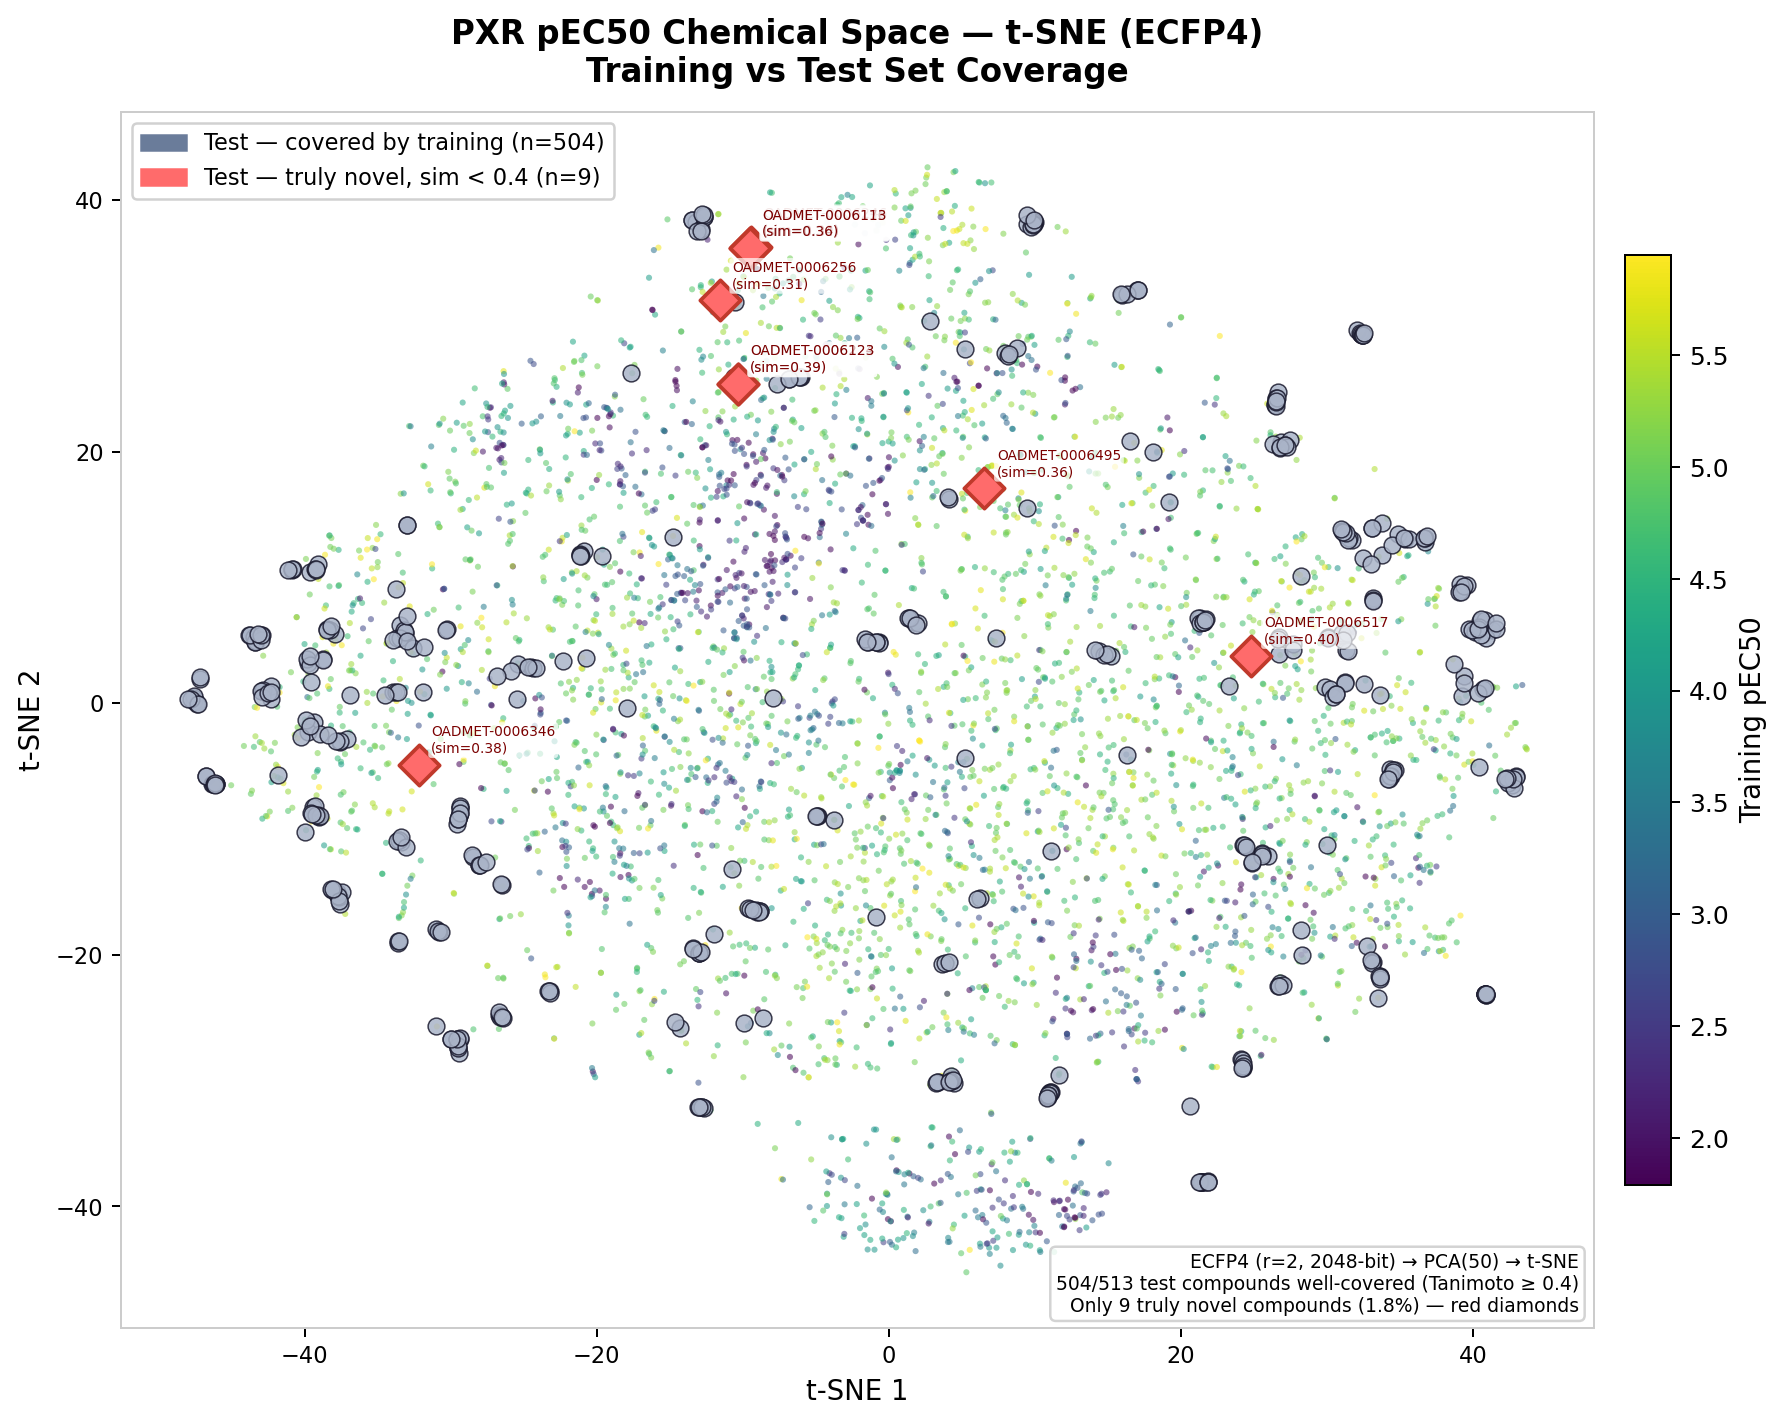
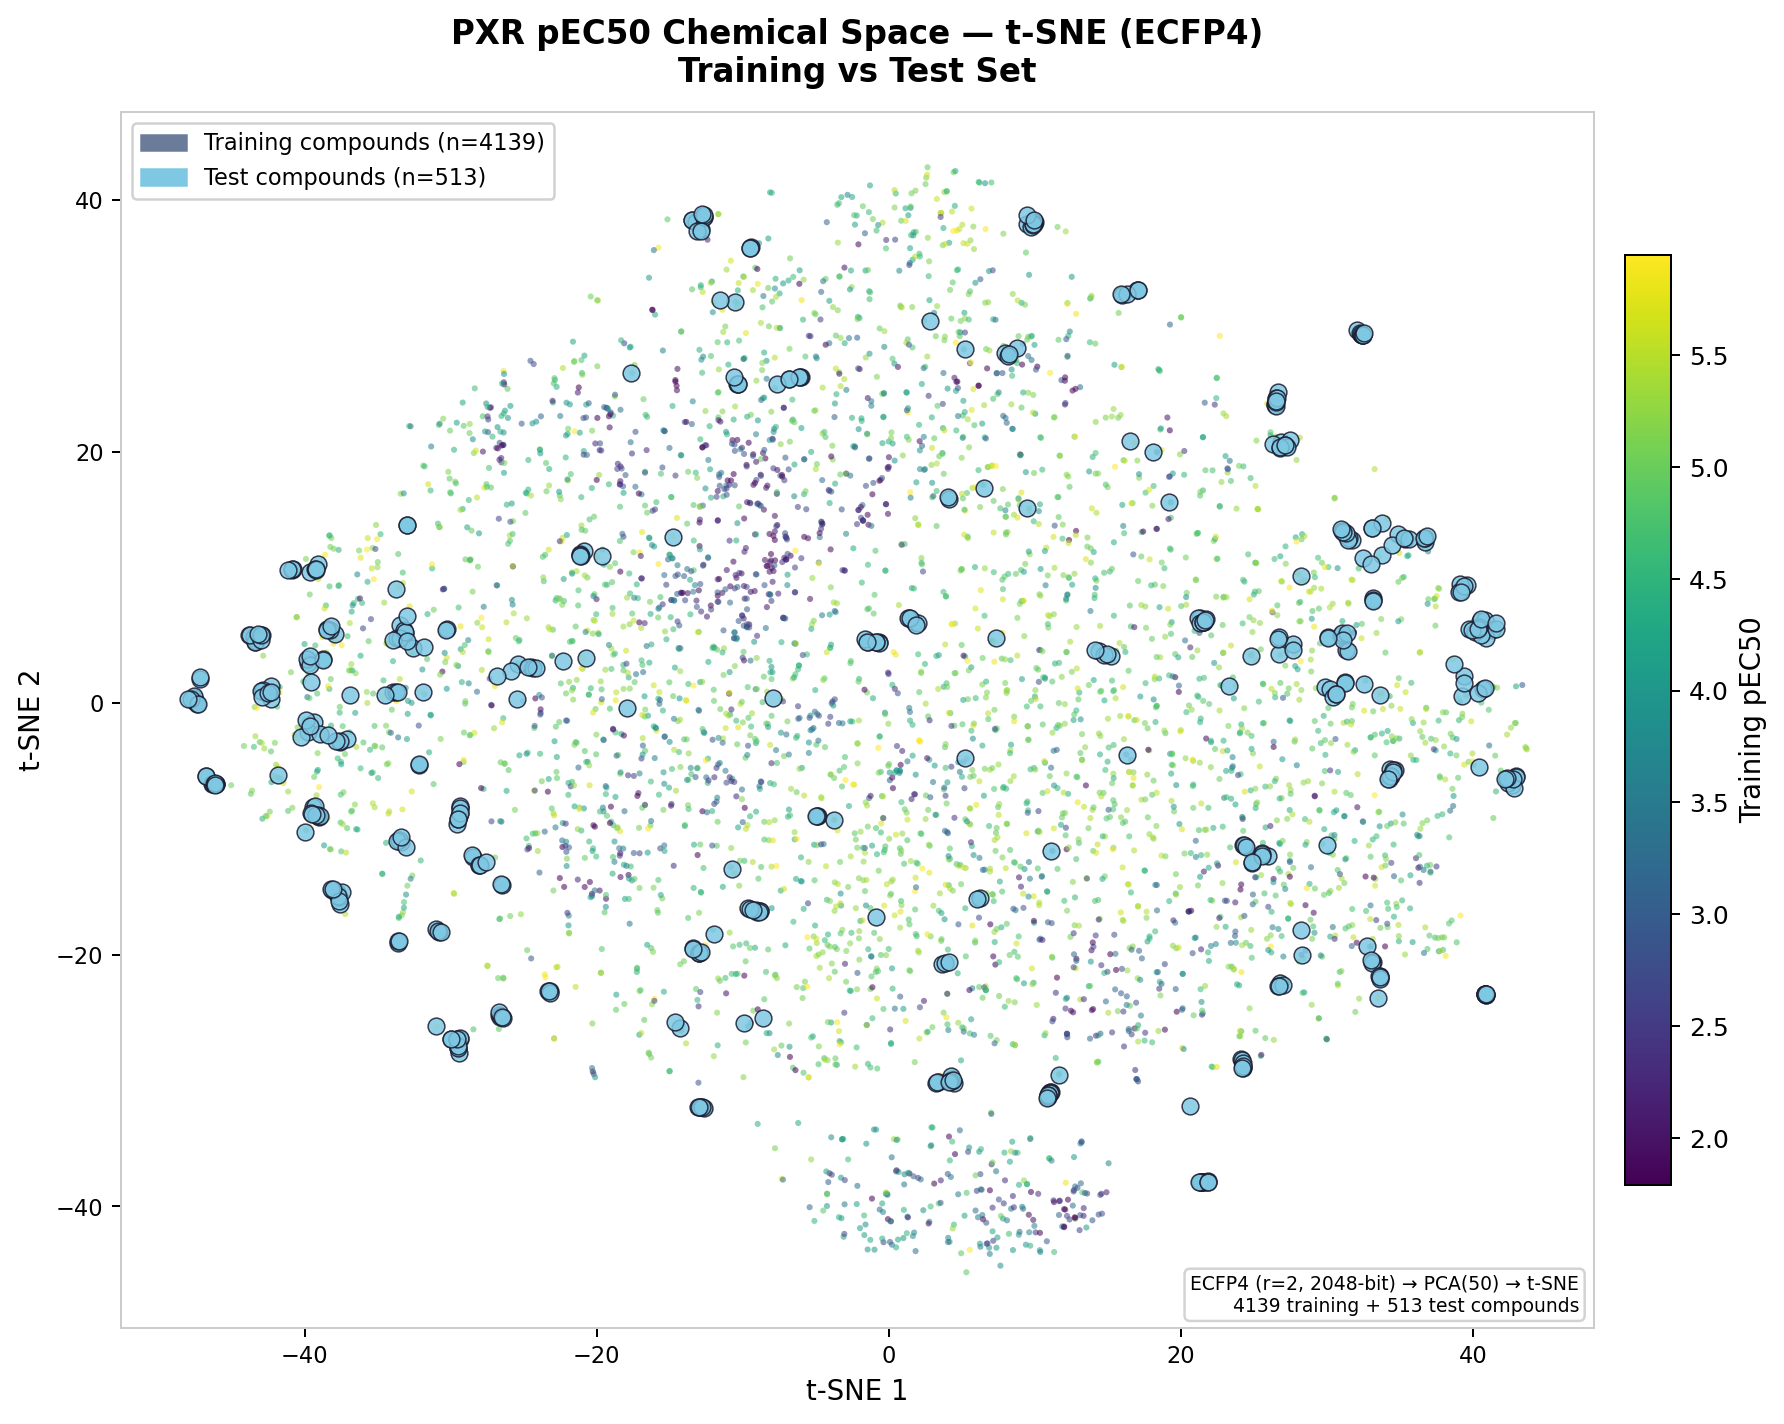
second commit

diff --git a/README.md b/README.md
@@ -15,8 +15,7 @@
 6. [What We Tried (and What Failed)](#what-we-tried-and-what-failed)  
 7. [Best Ensemble](#best-ensemble)  
 8. [What Top Teams Are Likely Doing Differently](#what-top-teams-are-likely-doing-differently)  
-9. [Phase 2 Plan](#phase-2-plan)  
-10. [Repo Contents](#repo-contents)  
+9. [Repo Contents](#repo-contents)  
 
 ---
 
@@ -97,19 +96,9 @@ We curated 37 ChEMBL PXR compounds with ECFP4 Tanimoto ≥ 0.4 to blind test com
 
 ### Structural coverage of the test set
 
-Before building any model, we mapped the relationship between training and test chemical space using ECFP4 Tanimoto similarity (radius = 2, 2048-bit) against the full `clean_train.csv` (2,948 compounds). A test compound is *covered* if any training compound lies within Tanimoto ≥ 0.4; otherwise it is *truly novel*.
-
-```
-513 test compounds
-├── 504 covered  (98.2%) — at least one training neighbour at Tanimoto ≥ 0.4
-└──   9 novel    ( 1.8%) — no close training analogue (max Tanimoto 0.30–0.40)
-```
-
-This is consistent with the challenge design: the 513 test compounds are Enamine analog expansions of the top 63 training hits, so structural coverage is expected to be high. The mean max-Tanimoto across all test compounds is **0.53**, peaking squarely in the 0.45–0.55 range — exactly matching the distribution shown in the OpenADMET tutorial notebook.
+Before building any model, we mapped the relationship between training and test chemical space using Morgan fingerprint Tanimoto similarity against `clean_train2.csv` (3,743 compounds). This is consistent with the challenge design: the 513 test compounds are Enamine analog expansions of the top 63 training hits, so structural coverage is expected to be high. The mean max-Tanimoto across all test compounds is **0.53**, peaking squarely in the 0.45–0.55 range.
 
 **The challenge here is not structural novelty — it is activity cliffs and potency tail prediction.** Our best Chemprop model produced a test prediction ceiling of **pEC50 = 5.94**, while the training set reaches **7.55**. Only 64 of 3,743 training compounds (1.7%) have pEC50 ≥ 6 — the model has very few high-potency scaffold anchors to extrapolate from, even when test compounds are structurally similar to training.
-
-> **Note on a past analysis error:** An earlier internal analysis mis-classified 235 test compounds as "orphans" because it was computed against an inadvertently small training subset (not the full `clean_train.csv`). All figures and the interactive t-SNE in this repo use the **corrected** labels — 9 truly novel compounds, not 235.
 
 ### Interactive Chemical Space Map (t-SNE)
 
@@ -122,27 +111,11 @@ ECFP4 fingerprints (2048-bit)
 ```
 
 **[→ Open interactive t-SNE map](tsne_interactive_v2.html)**  
-*(Hover over any compound to see its name and predicted pEC50. Viridis colour scale = training pEC50. Blue circles = covered test compounds. Red diamonds = 9 truly novel test compounds.)*
+*(Hover over any compound to see its name and predicted pEC50. Viridis colour scale = training pEC50. Blue circles = test compounds.)*
 
 ![t-SNE chemical space](tsne_white.png)
 
-**Key insight from the t-SNE:** The 9 truly novel compounds are scattered at the edges of the chemical space, as expected. The vast majority of test compounds overlap well with training clusters. The prediction difficulty is concentrated in **potency extrapolation** — predicting fine-grained pEC50 differences within structurally similar analog series — not in structural coverage.
-
-### The 9 truly novel test compounds
-
-| Compound | Max Tanimoto | Category |
-|---|---|---|
-| OADMET-0006246 | 0.299 | Very Novel (< 0.3) |
-| OADMET-0006256 | 0.305 | Novel (0.3–0.4) |
-| OADMET-0006176 | 0.338 | Novel (0.3–0.4) |
-| OADMET-0006113 | 0.357 | Novel (0.3–0.4) |
-| OADMET-0006495 | 0.359 | Novel (0.3–0.4) |
-| OADMET-0006346 | 0.385 | Novel (0.3–0.4) |
-| OADMET-0006123 | 0.391 | Novel (0.3–0.4) |
-| OADMET-0006224 | 0.391 | Novel (0.3–0.4) |
-| OADMET-0006517 | 0.397 | Novel (0.3–0.4) |
-
-> **Novel compounds file:** [`test_novel_9.csv`](test_novel_9.csv) — all 9 truly novel test compounds with max Tanimoto, nearest training neighbour SMILES, and neighbour pEC50.
+**Key insight from the t-SNE:** Test compounds overlap well with training clusters throughout the chemical space. The prediction difficulty is concentrated in **potency extrapolation** — predicting fine-grained pEC50 differences within structurally similar analog series — not in structural coverage.
 
 ---
 
@@ -304,12 +277,28 @@ Training a single MPNN with separate output heads for pEC50 regression, log₂FC
 
 [Uni-Mol2](https://arxiv.org/abs/2406.14769) (2024, scaling up to 1.1B parameters) and 3D-aware equivariant networks (MACE-OFF, NequIP) represent the current frontier. With 84M-parameter UniMol v2, we were already using a strong foundation, but the gap suggests the leading teams may be using larger or more recently fine-tuned models.
 
+
 ---
 
-## Phase 2 Plan
+## Repo Contents
 
-Phase 2 opens May 26 when Analog Set 1 pEC50 values are unblinded. The strategy:
+| File | Description |
+|---|---|
+| [`tsne_interactive_v2.html`](tsne_interactive_v2.html) | Interactive Plotly t-SNE map of all 4,652 compounds — hover for name + pEC50 |
+| [`tsne_white.png`](tsne_white.png) | Static t-SNE figure (white background, print-quality) |
 
-1. **Immediately add analog labels to training.** These are labeled compounds drawn from the same test distribution — exactly what the model has been missing. With training now overlapping the test distribution, OOF MAE becomes a reliable guide for the first time.
+---
 
-2. **Retrain Chemprop 10-fold and UniMol 8-fold** on `cle
+## References & Resources
+
+- **Challenge:** [OpenADMET PXR Challenge HuggingFace Space](https://huggingface.co/spaces/openadmet/pxr-challenge)
+- **Data:** [HuggingFace dataset: openadmet/pxr-challenge-train-test](https://huggingface.co/datasets/openadmet/pxr-challenge-train-test)
+- **Tutorial:** [OpenADMET PXR Challenge Tutorial (GitHub)](https://github.com/OpenADMET/PXR-Challenge-Tutorial)
+- **Chemprop:** [github.com/chemprop/chemprop](https://github.com/chemprop/chemprop) · [Heid et al., JCIM 2024](https://doi.org/10.1021/acs.jcim.3c01250)
+- **UniMol:** [github.com/dptech-corp/Uni-Mol](https://github.com/dptech-corp/Uni-Mol) · [Zhou et al., ICLR 2023](https://openreview.net/forum?id=6K2RM6wVqKu)
+- **GNINA:** [github.com/gnina/gnina](https://github.com/gnina/gnina) · [McNutt et al., J Cheminform 2021](https://doi.org/10.1186/s13321-021-00522-2)
+- **RDKit:** [www.rdkit.org](https://www.rdkit.org)
+
+---
+
+*Experimental PXR data generated by the team at Octant Bio (Sam Sabaat, Scott Simpkins, Yuning Shen, Bryan Jiang, Henry Chan, Jeff Tang, Ayesha Ghazali, Theo Tarver, Steven Edgar, Dominic Ky, and many others). Crystallographic data determined by Galen Correy, Nikhil Gupta, and the Fraser Lab at UCSF.*